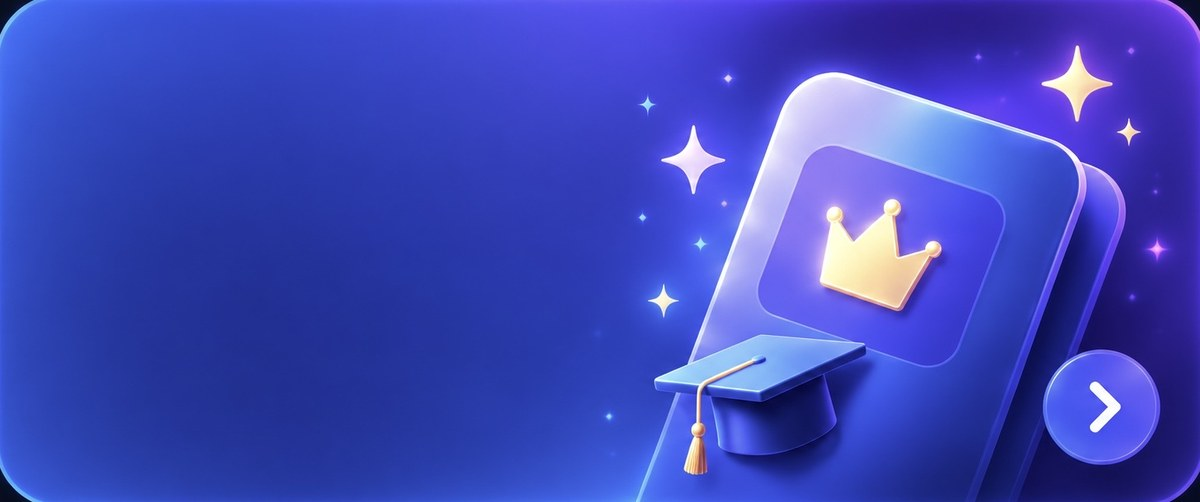
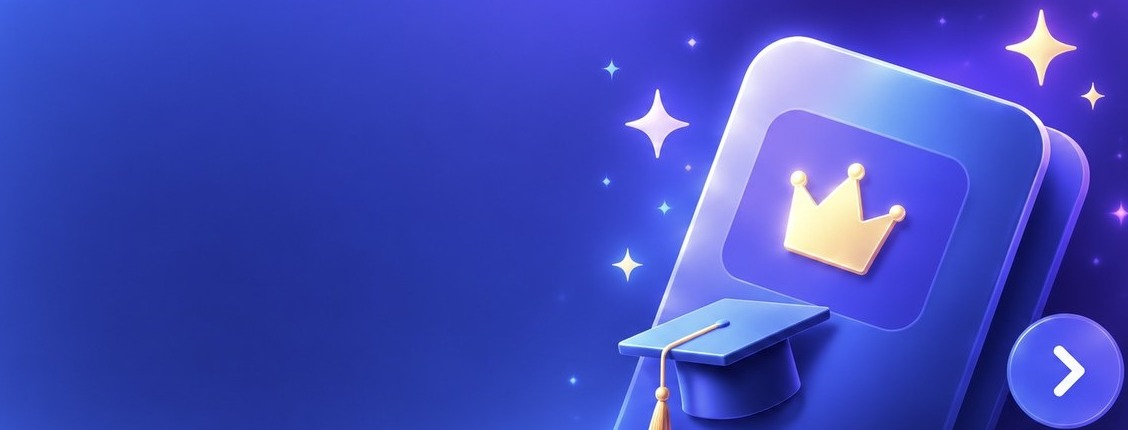
fix(subscription): the upgrade card scales with the screen instead of stretching
Back to full width, and made to earn it.

THE CORNERS were the artwork's own. upgrade_card.jpg had rounded corners
baked into it — #0E0C1A in the corner against #3753D1 a few pixels
along — so clipping it to the card's radius left four dark wedges. The
32px border is cropped off the asset, which fixes it at every size
rather than compensating for it in code. Its aspect changes with the
crop, hence 2.623.

THE TYPE was set for a phone and never moved: on an iPad the card grew
to three times the width and kept its 17pt heading, which is why it read
as a big empty panel with small writing in a corner. Every size is a
fraction of the card's own width now, clamped at both ends.

A GO PREMIUM BUTTON once the card is wide enough for one. The artwork
paints a chevron on its right, which is affordance enough on a phone
where the card is barely taller than a row; at tablet size that chevron
is marooned in the corner and the card reads as a picture rather than
something to press.

And the picture is blurred in proportion to how far past its own 1128px
it is being enlarged — none on a phone, which never reaches it — under a
wash in the artwork's own deep blue, so the words and the picture read
as one surface.

diff --git a/mobile/lib/features/subscriptions/subscriptions_page.dart b/mobile/lib/features/subscriptions/subscriptions_page.dart
@@ -1,3 +1,5 @@
+import 'dart:ui' show ImageFilter;
+
 import 'package:flutter/material.dart';
 import 'package:flutter_riverpod/flutter_riverpod.dart';
 import 'package:url_launcher/url_launcher.dart';
@@ -379,78 +381,193 @@ class _UpgradeBanner extends StatelessWidget {
   ///
   /// 2.39:1 is the image's own aspect. Pinned, so the art is never cropped and
   /// the text never drifts off the part of it that was left empty.
-  static const double _aspect = 2.39;
+  /// The artwork's own aspect, after its baked-in rounded corners were
+  /// cropped off — they were showing as dark wedges inside the card's clip.
+  static const double _aspect = 2.623;
 
   @override
   Widget build(BuildContext context) {
     final dark = Theme.of(context).brightness == Brightness.dark;
     return GestureDetector(
       onTap: onTap,
-      child: ClipRRect(
-        borderRadius: BorderRadius.circular(20),
-        child: AspectRatio(
-          aspectRatio: _aspect,
-          child: DecoratedBox(
-            decoration: BoxDecoration(
-              image: const DecorationImage(
-                image: AssetImage('assets/premium/upgrade_card.jpg'),
-                fit: BoxFit.cover,
+      child: LayoutBuilder(builder: (context, box) {
+        final w = box.maxWidth;
+        // TYPE SCALED TO THE CARD, not fixed.
+        //
+        // The sizes were set for a phone, so on an iPad the card grew to three
+        // times the width and kept 17pt headings — a big empty panel with
+        // small writing in the corner, which is what made it read as inert.
+        // Everything below is a fraction of the card's own width, clamped so
+        // it stays sane at both ends.
+        double k(double frac, double lo, double hi) =>
+            (w * frac).clamp(lo, hi).toDouble();
+        final titleSize = k(0.047, 17, 34);
+        final eyebrowSize = k(0.0245, 11.5, 15);
+        final bodySize = k(0.0235, 11, 15);
+        final ctaSize = k(0.026, 12, 16);
+        final padL = w * 0.055;
+
+        // The artwork is 1128px wide. Past roughly that many device pixels it
+        // is being enlarged, and enlarged JPEG shows its blocks — so it gets a
+        // blur in proportion to how far past its own resolution it is being
+        // asked to go. A phone never reaches it and gets none.
+        final dpr = MediaQuery.devicePixelRatioOf(context);
+        final over = (w * dpr) / 1128.0;
+        final blur = ((over - 1.0) * 2.2).clamp(0.0, 2.2);
+
+        return ClipRRect(
+          borderRadius: BorderRadius.circular(20),
+          child: AspectRatio(
+            aspectRatio: _aspect,
+            child: DecoratedBox(
+              decoration: BoxDecoration(
+                boxShadow: [
+                  BoxShadow(
+                    color: const Color(0xFF4F46E5)
+                        .withValues(alpha: dark ? 0.30 : 0.18),
+                    blurRadius: 22,
+                    offset: const Offset(0, 8),
+                  ),
+                ],
               ),
-              boxShadow: [
-                BoxShadow(
-                  color: const Color(0xFF4F46E5)
-                      .withValues(alpha: dark ? 0.30 : 0.18),
-                  blurRadius: 22,
-                  offset: const Offset(0, 8),
-                ),
-              ],
-            ),
-            child: LayoutBuilder(
-              builder: (context, box) => Padding(
-                // The clear part of the artwork is its left 55%; the crown and
-                // the chevron live in the rest. Sizing the text block to that
-                // fraction keeps the words off the picture at every width.
-                padding: EdgeInsets.fromLTRB(
-                    box.maxWidth * 0.055, 0, box.maxWidth * 0.45, 0),
-                child: Column(
-                  mainAxisAlignment: MainAxisAlignment.center,
-                  crossAxisAlignment: CrossAxisAlignment.start,
-                  children: [
-                    Row(children: [
-                      const Icon(Icons.auto_awesome_rounded,
-                          size: 13, color: Colors.white70),
-                      const SizedBox(width: 5),
-                      Flexible(
-                        child: Text('Upgrade to Premium',
-                            maxLines: 1,
-                            overflow: TextOverflow.ellipsis,
-                            style: TextStyle(
-                                fontSize: 11.5,
-                                fontWeight: FontWeight.w800,
-                                color: Colors.white.withValues(alpha: 0.9))),
+              child: Stack(
+                fit: StackFit.expand,
+                children: [
+                  if (blur > 0.01)
+                    ImageFiltered(
+                      imageFilter: ImageFilter.blur(
+                          sigmaX: blur, sigmaY: blur, tileMode: TileMode.decal),
+                      child: const Image(
+                          image: AssetImage('assets/premium/upgrade_card.jpg'),
+                          fit: BoxFit.cover),
+                    )
+                  else
+                    const Image(
+                        image: AssetImage('assets/premium/upgrade_card.jpg'),
+                        fit: BoxFit.cover),
+                  // A wash in the artwork's OWN deep blue, heaviest where the
+                  // words are. It settles the picture and the text into one
+                  // surface instead of words laid over a photograph.
+                  const DecoratedBox(
+                    decoration: BoxDecoration(
+                      gradient: LinearGradient(
+                        begin: Alignment.centerLeft,
+                        end: Alignment.centerRight,
+                        colors: [
+                          Color(0xCC1B176B),
+                          Color(0x551B176B),
+                          Color(0x00241C7A),
+                        ],
+                        stops: [0.0, 0.46, 0.72],
                       ),
-                    ]),
-                    const SizedBox(height: 6),
-                    const Text('Unlock your full\nlearning potential',
-                        style: TextStyle(
-                            fontSize: 17,
-                            height: 1.18,
-                            fontWeight: FontWeight.w800,
-                            letterSpacing: -0.3,
-                            color: Colors.white)),
-                    const SizedBox(height: 6),
-                    Text(
-                      'All courses, practice questions, mock exams and more.',
-                      style: TextStyle(
-                          fontSize: 11,
-                          height: 1.3,
-                          color: Colors.white.withValues(alpha: 0.85)),
                     ),
-                  ],
-                ),
+                  ),
+                  Padding(
+                    // The clear part of the artwork is its left 55%; the crown
+                    // and the cap live in the rest.
+                    padding: EdgeInsets.fromLTRB(padL, 0, w * 0.42, 0),
+                    child: Column(
+                      mainAxisAlignment: MainAxisAlignment.center,
+                      crossAxisAlignment: CrossAxisAlignment.start,
+                      children: [
+                        Row(children: [
+                          Icon(Icons.auto_awesome_rounded,
+                              size: eyebrowSize * 1.1, color: Colors.white70),
+                          SizedBox(width: eyebrowSize * 0.42),
+                          Flexible(
+                            child: Text('Upgrade to Premium',
+                                maxLines: 1,
+                                overflow: TextOverflow.ellipsis,
+                                style: TextStyle(
+                                    fontSize: eyebrowSize,
+                                    fontWeight: FontWeight.w800,
+                                    color:
+                                        Colors.white.withValues(alpha: 0.9))),
+                          ),
+                        ]),
+                        SizedBox(height: titleSize * 0.34),
+                        Text('Unlock your full\nlearning potential',
+                            style: TextStyle(
+                                fontSize: titleSize,
+                                height: 1.18,
+                                fontWeight: FontWeight.w800,
+                                letterSpacing: -0.3,
+                                color: Colors.white)),
+                        SizedBox(height: titleSize * 0.3),
+                        Text(
+                          'All courses, practice questions, mock exams and more.',
+                          maxLines: 2,
+                          overflow: TextOverflow.ellipsis,
+                          style: TextStyle(
+                              fontSize: bodySize,
+                              height: 1.3,
+                              color: Colors.white.withValues(alpha: 0.85)),
+                        ),
+                        // A BUTTON once there is room for one.
+                        //
+                        // The artwork paints a chevron on its right, which is
+                        // enough of an affordance on a phone where the whole
+                        // card is barely taller than a row. At tablet size that
+                        // chevron is marooned in the corner and the card reads
+                        // as a picture rather than something to press.
+                        if (w >= 520) ...[
+                          SizedBox(height: titleSize * 0.46),
+                          _GoPremiumButton(fontSize: ctaSize),
+                        ],
+                      ],
+                    ),
+                  ),
+                ],
               ),
             ),
           ),
+        );
+      }),
+    );
+  }
+}
+
+/// The card's own call to action. Not an AppButton: this one sits on the
+/// artwork and takes its colours from it, and the whole card is already the
+/// tap target — so it is deliberately inert and purely visual.
+class _GoPremiumButton extends StatelessWidget {
+  final double fontSize;
+  const _GoPremiumButton({required this.fontSize});
+
+  @override
+  Widget build(BuildContext context) {
+    return IgnorePointer(
+      child: Container(
+        padding: EdgeInsets.symmetric(
+            horizontal: fontSize * 1.5, vertical: fontSize * 0.72),
+        decoration: BoxDecoration(
+          gradient: const LinearGradient(
+            colors: [Color(0xFF6D8BFF), Color(0xFF8B5CF6)],
+          ),
+          borderRadius: BorderRadius.circular(999),
+          boxShadow: [
+            BoxShadow(
+              color: const Color(0xFF4F46E5).withValues(alpha: 0.45),
+              blurRadius: 16,
+              offset: const Offset(0, 5),
+            ),
+          ],
+        ),
+        child: Row(
+          mainAxisSize: MainAxisSize.min,
+          children: [
+            Icon(Icons.workspace_premium_rounded,
+                size: fontSize * 1.15, color: Colors.white),
+            SizedBox(width: fontSize * 0.5),
+            Text('Go Premium',
+                style: TextStyle(
+                    fontSize: fontSize,
+                    fontWeight: FontWeight.w800,
+                    color: Colors.white)),
+            SizedBox(width: fontSize * 0.6),
+            Icon(Icons.arrow_forward_rounded,
+                size: fontSize * 1.05, color: Colors.white),
+          ],
         ),
       ),
     );
